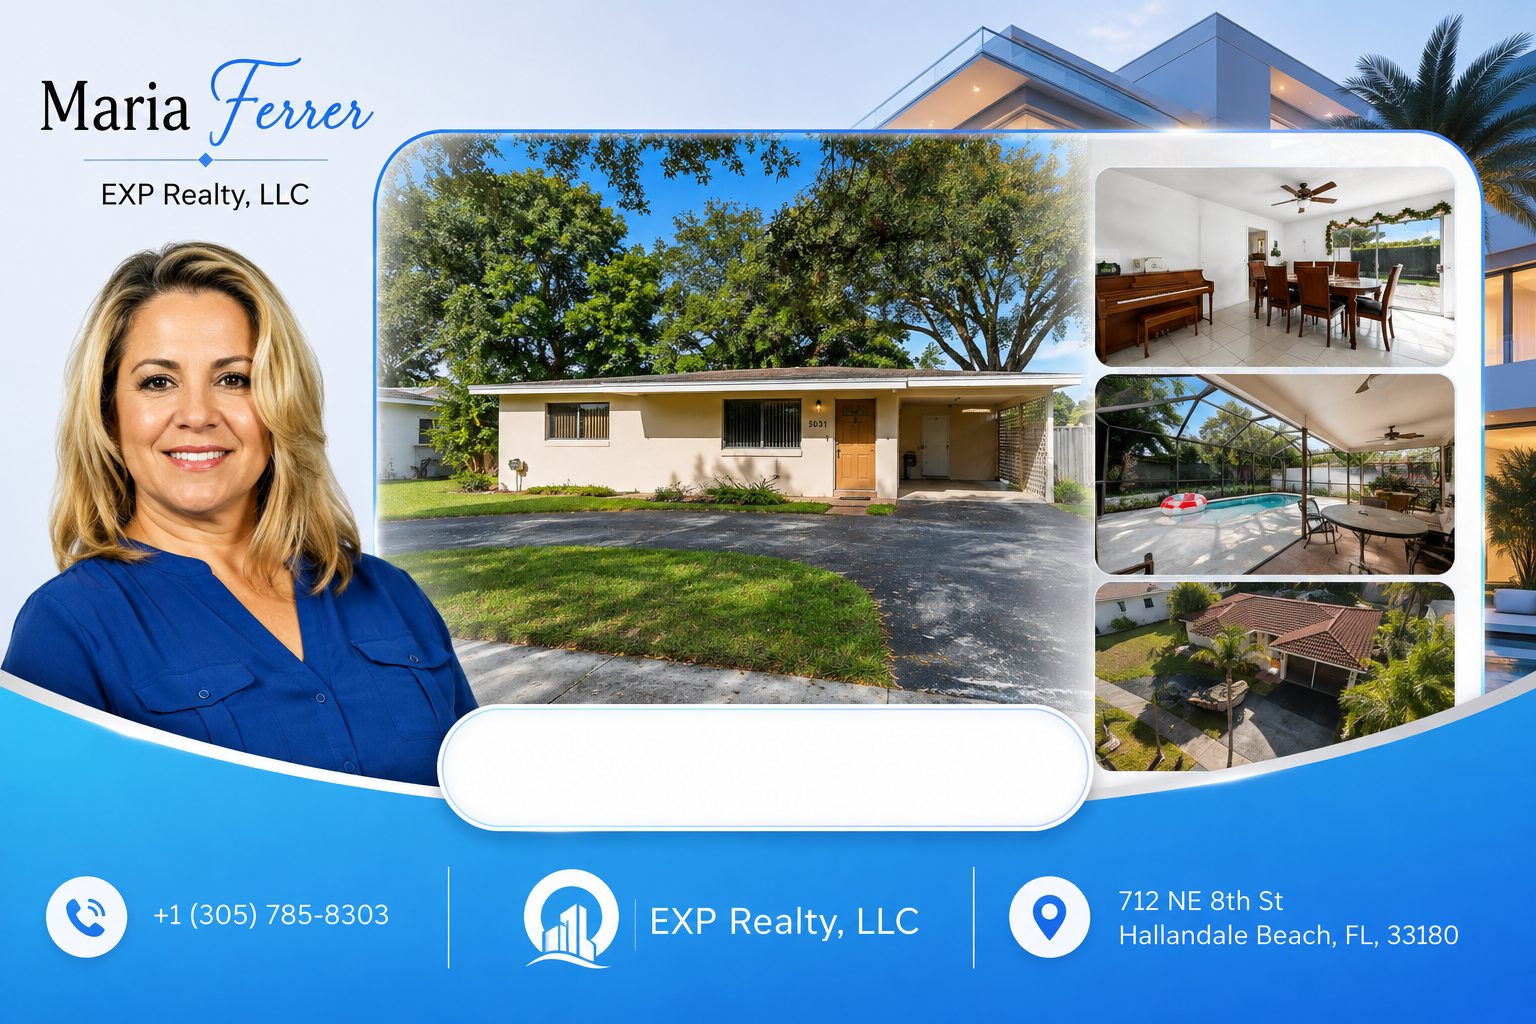
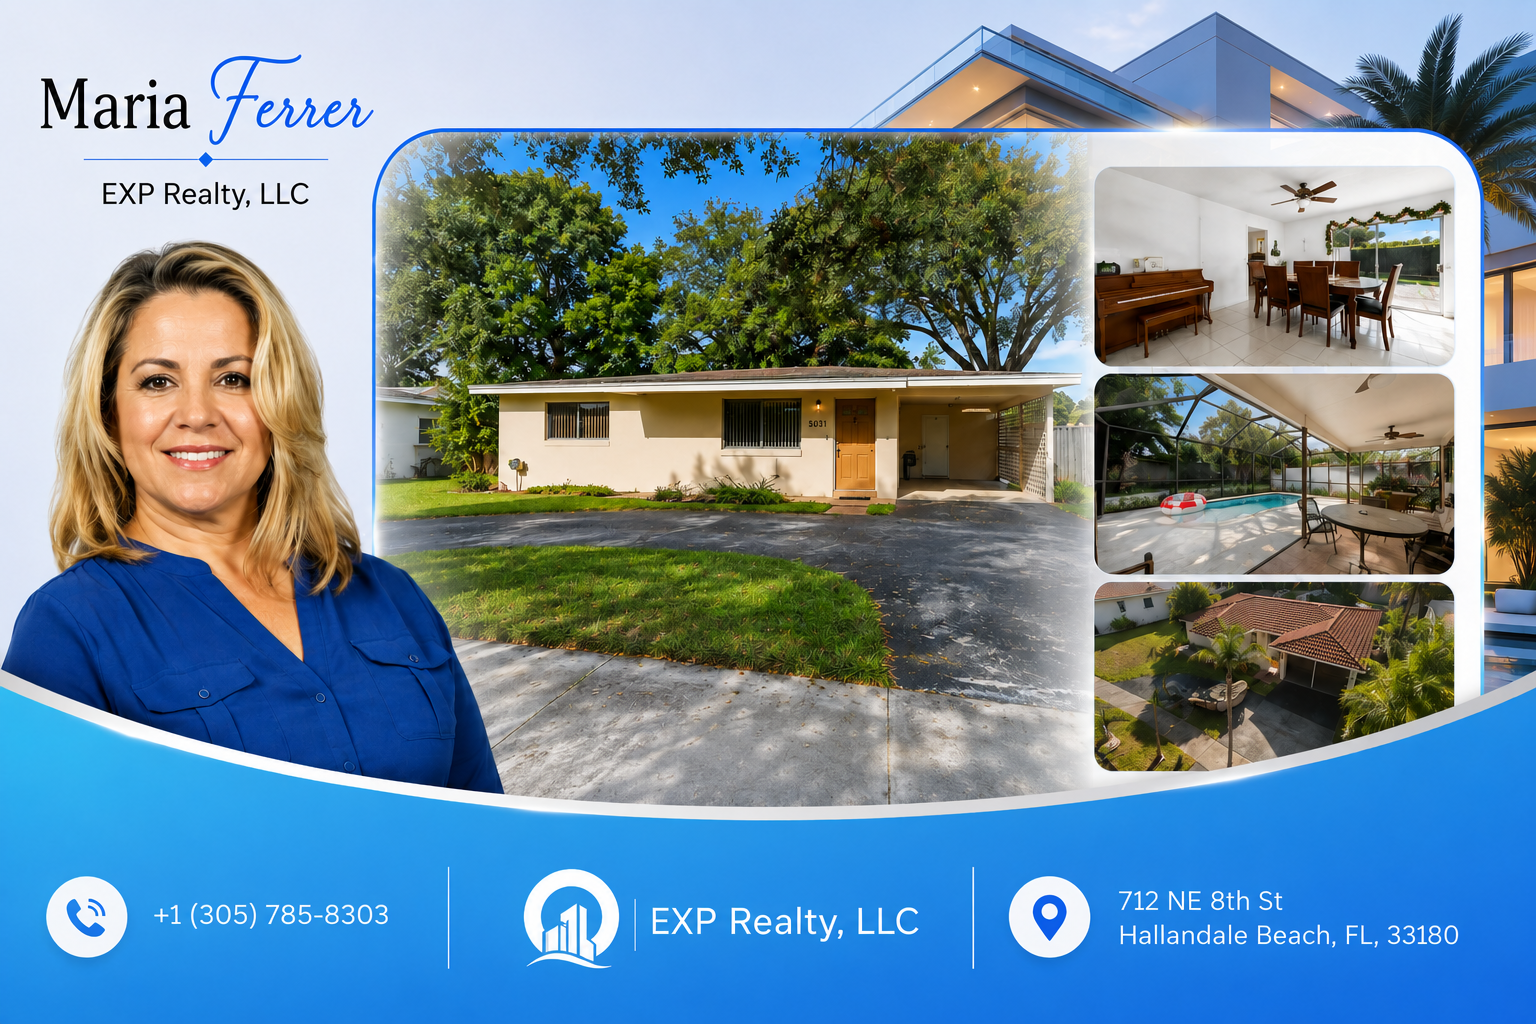
feat: update Latest Listings image + heading, add Featured Listings on Testimonials page
1. Homepage Latest Listings section:
   - Replaced the showcase image with the new uploaded property
     banner (agent Maria Ferrer + property collage).
   - Updated heading from 'Latest Listings' to
     'Latest Listings By Our Realtors'.

2. Testimonials page — new Featured Listings section directly below
   the hero. Shows 3 property cards, each with a property image,
   address, and 'View Listing' button linking to the corresponding
     Zillow property URL:
   - 1060 NW 82nd Ave, Coral Springs, FL 33071
     -> https://www.zillow.com/homedetails/1060-NW-82nd-Ave-...
   - 3115 NW 86th Ave, 2A, Sunrise, FL 33351
     -> https://www.zillow.com/homedetails/3115-NW-86th-Ave-2A-...
   - 5031 SW 94th Way, Cooper City, FL 33328
     -> https://www.zillow.com/homedetails/5031-SW-94th-Way-...
   Each button opens in a new tab (target=_blank, rel=noopener).

3 new AI-generated property images (1344x768 PNG) for the 3 cards.
Gradient 'View Listing' buttons match the card-border gradient style.

diff --git a/src/components/leadsphere/sections/FeaturedListings.tsx b/src/components/leadsphere/sections/FeaturedListings.tsx
@@ -1,0 +1,113 @@
+"use client";
+
+import Image from "next/image";
+import { motion } from "framer-motion";
+import { ArrowRight, MapPin } from "lucide-react";
+
+/**
+ * Featured Listings section — displayed on the Testimonials page just
+ * below the hero. Shows 3 property images, each with a "View Listing"
+ * button that redirects to the corresponding Zillow property URL.
+ *
+ * Properties:
+ * 1. 1060 NW 82nd Ave, Coral Springs, FL 33071
+ * 2. 3115 NW 86th Ave, 2A, Sunrise, FL 33351
+ * 3. 5031 SW 94th Way, Cooper City, FL 33328
+ */
+
+type Listing = {
+  image: string;
+  address: string;
+  zillowUrl: string;
+};
+
+const LISTINGS: Listing[] = [
+  {
+    image: "/listings/property-1-coral-springs.png",
+    address: "1060 NW 82nd Ave, Coral Springs, FL 33071",
+    zillowUrl:
+      "https://www.zillow.com/homedetails/1060-NW-82nd-Ave-Coral-Springs-FL-33071/42858987_zpid/",
+  },
+  {
+    image: "/listings/property-2-sunrise.png",
+    address: "3115 NW 86th Ave, 2A, Sunrise, FL 33351",
+    zillowUrl:
+      "https://www.zillow.com/homedetails/3115-NW-86th-Ave-2A-Sunrise-FL-33351/66119074_zpid/",
+  },
+  {
+    image: "/listings/property-3-cooper-city.png",
+    address: "5031 SW 94th Way, Cooper City, FL 33328",
+    zillowUrl:
+      "https://www.zillow.com/homedetails/5031-SW-94th-Way-Cooper-City-FL-33328/43187482_zpid/",
+  },
+];
+
+export function FeaturedListings() {
+  return (
+    <section className="relative w-full px-5 py-12 sm:px-8 md:py-16">
+      <div className="mx-auto w-full max-w-6xl">
+        {/* Heading */}
+        <div className="mb-8 text-center">
+          <h2 className="font-heading text-2xl font-bold text-black sm:text-3xl md:text-4xl">
+            Featured{" "}
+            <span className="bg-gradient-to-r from-electric to-cyan bg-clip-text text-transparent">
+              Listings
+            </span>
+          </h2>
+          <p className="mt-2 text-sm text-black/60 sm:text-base">
+            Browse our active property listings — click any listing to view full
+            details on Zillow
+          </p>
+        </div>
+
+        {/* 3 property cards */}
+        <div className="grid grid-cols-1 gap-6 sm:grid-cols-2 lg:grid-cols-3">
+          {LISTINGS.map((listing, i) => (
+            <motion.div
+              key={listing.address}
+              initial={{ opacity: 0, y: 24 }}
+              whileInView={{ opacity: 1, y: 0 }}
+              viewport={{ once: true, margin: "-10% 0px" }}
+              transition={{ duration: 0.5, delay: i * 0.1 }}
+              className="group relative overflow-hidden rounded-2xl border border-black/15 bg-white shadow-lg transition-all hover:shadow-2xl"
+            >
+              {/* Property image */}
+              <div className="relative aspect-[4/3] w-full overflow-hidden">
+                <Image
+                  src={listing.image}
+                  alt={`Property at ${listing.address}`}
+                  fill
+                  sizes="(max-width: 640px) 100vw, (max-width: 1024px) 50vw, 33vw"
+                  className="object-cover transition-transform duration-500 group-hover:scale-105"
+                />
+                {/* Gradient overlay for button legibility */}
+                <div className="absolute inset-0 bg-gradient-to-t from-black/50 via-transparent to-transparent" />
+              </div>
+
+              {/* Address bar */}
+              <div className="flex items-start gap-2 p-4">
+                <MapPin className="mt-0.5 h-4 w-4 shrink-0 text-electric" />
+                <p className="text-sm font-medium leading-relaxed text-black">
+                  {listing.address}
+                </p>
+              </div>
+
+              {/* View Listing button */}
+              <div className="px-4 pb-4">
+                <a
+                  href={listing.zillowUrl}
+                  target="_blank"
+                  rel="noopener noreferrer"
+                  className="group/btn flex w-full items-center justify-center gap-2 rounded-full bg-[linear-gradient(120deg,#2563EB,#38BDF8,#14B8A6,#2563EB)] animate-gradient-x bg-[length:200%_200%] px-5 py-2.5 text-sm font-semibold text-white shadow-[0_4px_12px_-2px_rgba(37,99,235,0.5)] transition-all hover:shadow-[0_8px_20px_-2px_rgba(56,189,248,0.7)]"
+                >
+                  <span>View Listing</span>
+                  <ArrowRight className="h-4 w-4 transition-transform group-hover/btn:translate-x-1" />
+                </a>
+              </div>
+            </motion.div>
+          ))}
+        </div>
+      </div>
+    </section>
+  );
+}

diff --git a/src/app/testimonials/page.tsx b/src/app/testimonials/page.tsx
@@ -3,6 +3,7 @@ import { SiteChrome, PageHero } from "@/components/leadsphere/SiteChrome";
 import { CTABanner } from "@/components/leadsphere/CTABanner";
 import { BreadcrumbSchema } from "@/components/seo/BreadcrumbSchema";
 import CrmIntegrationsTestimonials from "@/components/leadsphere/sections/CrmIntegrationsTestimonials";
+import { FeaturedListings } from "@/components/leadsphere/sections/FeaturedListings";
 import {
   GlassCard,
   SectionHeading,
@@ -111,7 +112,8 @@ export default function TestimonialsPage() {
         description="At Opus Global Solution, our clients' success is our greatest achievement. Hear directly from real estate professionals who have enhanced their efficiency and grown their businesses with our support."
       />
 
-      {/* 1. CRM Kanban + Integrations + Testimonials carousel (id="testimonials") */}
+      {/* Featured Listings — 3 property cards with View Listing buttons */}
+      <FeaturedListings />
 
       {/* 2. CRM Kanban + Integrations + Testimonials carousel (id="testimonials") */}
       <CrmIntegrationsTestimonials showHeading={false} />

diff --git a/src/components/leadsphere/sections/LatestListings.tsx b/src/components/leadsphere/sections/LatestListings.tsx
@@ -18,9 +18,9 @@ export function LatestListings() {
         {/* Heading */}
         <div className="mb-6 text-center">
           <h2 className="font-heading text-2xl font-bold text-white sm:text-3xl md:text-4xl">
-            Latest{" "}
+            Latest Listings By{" "}
             <span className="bg-gradient-to-r from-electric to-cyan bg-clip-text text-transparent">
-              Listings
+              Our Realtors
             </span>
           </h2>
           <p className="mt-2 text-sm text-white/60 sm:text-base">
